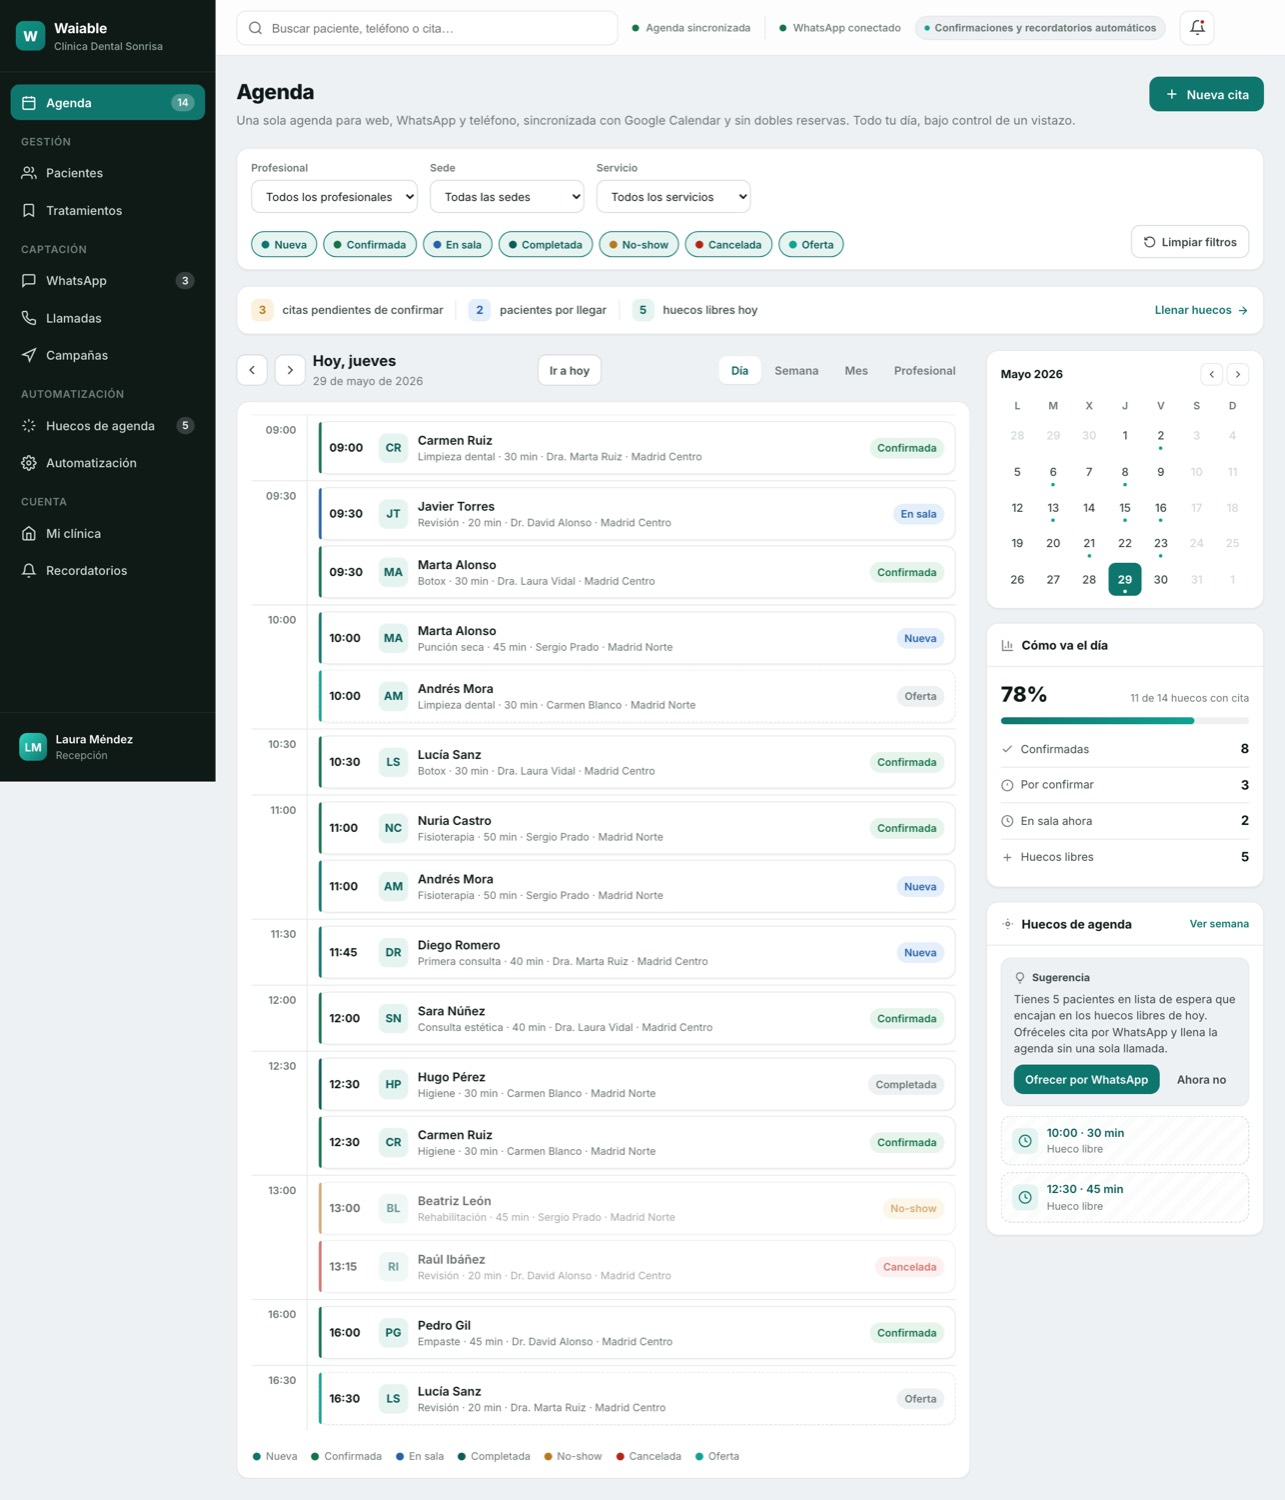
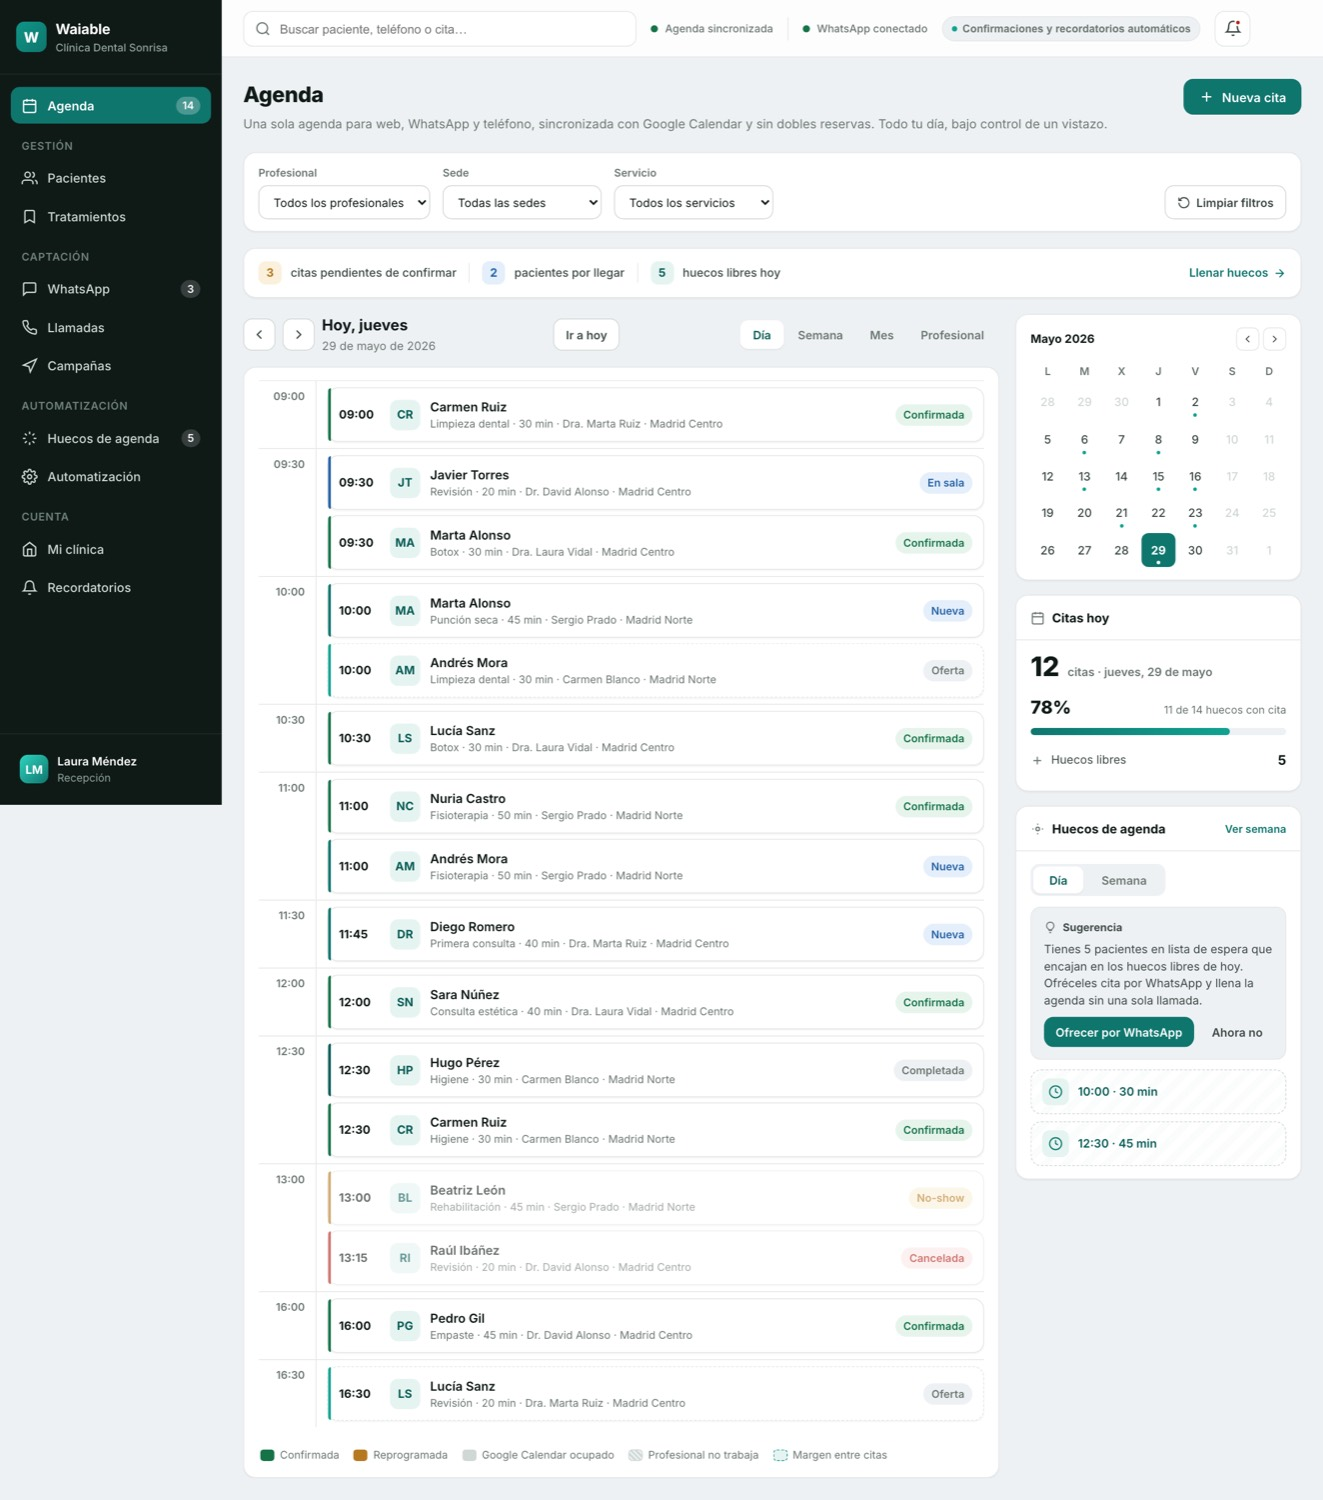
Agenda: quitar fila de chips de estado (mas espacio para el calendario); nueva leyenda inferior (Confirmada/Reprogramada/Google Calendar ocupado/Profesional no trabaja/Margen entre citas); 'Como va el dia' -> 'Citas hoy' (n citas + fecha + % huecos + solo Huecos libres); en Huecos de agenda toggle D

diff --git a/clinicas/agenda.html b/clinicas/agenda.html
@@ -456,6 +456,19 @@ body{font-family:'Inter',system-ui,sans-serif;background:var(--bg);color:var(--t
 @media(max-width:760px){.cm-grid2,.cm-slots{grid-template-columns:1fr}.cm-cal-periods{grid-template-columns:1fr 1fr}}
 
 
+
+/* ===== leyenda inferior (tipos de bloque) ===== */
+.lg-sw{width:16px;height:13px;border-radius:4px;flex-shrink:0;display:inline-block;border:1px solid transparent}
+.lg-confirmada{background:var(--ok)}
+.lg-reprogramada{background:var(--warning)}
+.lg-google{background:var(--line-strong)}
+.lg-nowork{background:repeating-linear-gradient(45deg,#cfd8d4,#cfd8d4 2px,#eef1f4 2px,#eef1f4 4px);border-color:var(--line-strong)}
+.lg-buffer{background:var(--primary-soft);border:1px dashed var(--primary-bright)}
+/* ===== filtro día/semana en tarjeta de huecos ===== */
+.gap-range{display:inline-flex;background:var(--bg);border-radius:10px;padding:3px;gap:2px;margin-bottom:12px}
+.gap-range-btn{height:30px;padding:0 18px;border:none;background:transparent;border-radius:8px;font-size:13px;font-weight:600;color:var(--muted);cursor:pointer;font-family:inherit}
+.gap-range-btn.active{background:var(--surface);color:var(--primary-dark);box-shadow:var(--shadow-sm)}
+
 </style>
 </head>
 <body>
@@ -589,15 +602,6 @@ body{font-family:'Inter',system-ui,sans-serif;background:var(--bg);color:var(--t
           <option value="Primera consulta">Primera consulta</option>
         </select>
       </div>
-      <div class="filter-chips" id="statusChips">
-        <button class="chip active" data-status="nueva"><span class="chip-dot" style="background:var(--primary)"></span> Nueva</button>
-        <button class="chip active" data-status="confirmada"><span class="chip-dot" style="background:var(--ok)"></span> Confirmada</button>
-        <button class="chip active" data-status="en_sala"><span class="chip-dot" style="background:var(--info)"></span> En sala</button>
-        <button class="chip active" data-status="completada"><span class="chip-dot" style="background:var(--primary-dark)"></span> Completada</button>
-        <button class="chip active" data-status="no_show"><span class="chip-dot" style="background:var(--warning)"></span> No-show</button>
-        <button class="chip active" data-status="cancelada"><span class="chip-dot" style="background:var(--danger)"></span> Cancelada</button>
-        <button class="chip active" data-status="oferta"><span class="chip-dot" style="background:var(--accent)"></span> Oferta</button>
-      </div>
       <button class="filter-reset" id="filterReset" type="button">
         <svg viewBox="0 0 24 24" fill="none" stroke="currentColor" stroke-width="2"><path d="M3 12a9 9 0 1 0 3-6.7L3 8"/><path d="M3 3v5h5"/></svg>
         Limpiar filtros
@@ -643,15 +647,13 @@ body{font-family:'Inter',system-ui,sans-serif;background:var(--bg);color:var(--t
           <!-- la rejilla se genera dinámicamente según vista + filtros -->
           <div id="calendar"></div>
 
-          <!-- legend -->
-          <div class="legend" style="padding:12px 2px 2px">
-            <div class="legend-item"><span class="legend-dot" style="background:var(--primary)"></span> Nueva</div>
-            <div class="legend-item"><span class="legend-dot" style="background:var(--ok)"></span> Confirmada</div>
-            <div class="legend-item"><span class="legend-dot" style="background:var(--info)"></span> En sala</div>
-            <div class="legend-item"><span class="legend-dot" style="background:var(--primary-dark)"></span> Completada</div>
-            <div class="legend-item"><span class="legend-dot" style="background:var(--warning)"></span> No-show</div>
-            <div class="legend-item"><span class="legend-dot" style="background:var(--danger)"></span> Cancelada</div>
-            <div class="legend-item"><span class="legend-dot" style="background:var(--accent)"></span> Oferta</div>
+          <!-- leyenda -->
+          <div class="legend" style="padding:14px 2px 2px">
+            <div class="legend-item"><span class="lg-sw lg-confirmada"></span> Confirmada</div>
+            <div class="legend-item"><span class="lg-sw lg-reprogramada"></span> Reprogramada</div>
+            <div class="legend-item"><span class="lg-sw lg-google"></span> Google Calendar ocupado</div>
+            <div class="legend-item"><span class="lg-sw lg-nowork"></span> Profesional no trabaja</div>
+            <div class="legend-item"><span class="lg-sw lg-buffer"></span> Margen entre citas</div>
           </div>
         </div>
       </div>
@@ -680,29 +682,21 @@ body{font-family:'Inter',system-ui,sans-serif;background:var(--bg);color:var(--t
           </div>
         </div>
 
-        <!-- ocupación del día -->
+        <!-- citas de hoy -->
         <div class="side-card">
           <div class="side-head">
-            <div class="side-title"><svg viewBox="0 0 24 24" fill="none" stroke="currentColor" stroke-width="2"><path d="M3 3v18h18"/><path d="M18 17V9M13 17V5M8 17v-3"/></svg> Cómo va el día</div>
+            <div class="side-title"><svg viewBox="0 0 24 24" fill="none" stroke="currentColor" stroke-width="2"><rect x="3" y="4" width="18" height="18" rx="2"/><path d="M16 2v4M8 2v4M3 10h18"/></svg> Citas hoy</div>
           </div>
           <div class="side-body">
-            <div style="display:flex;align-items:baseline;justify-content:space-between">
-              <div style="font-size:24px;font-weight:800">78%</div>
+            <div style="display:flex;align-items:baseline;gap:9px">
+              <div style="font-size:30px;font-weight:800;line-height:1;color:var(--text)">12</div>
+              <div style="font-size:13px;color:var(--muted);font-weight:600">citas &middot; jueves, 29 de mayo</div>
+            </div>
+            <div style="display:flex;align-items:baseline;justify-content:space-between;margin-top:14px">
+              <div style="font-size:20px;font-weight:800">78%</div>
               <div style="font-size:12px;color:var(--muted)">11 de 14 huecos con cita</div>
             </div>
             <div class="fill-bar"><span style="width:78%"></span></div>
-            <div class="stat-row">
-              <div class="stat-label"><svg viewBox="0 0 24 24" fill="none" stroke="currentColor" stroke-width="2"><path d="M20 6L9 17l-5-5"/></svg> Confirmadas</div>
-              <div class="stat-value">8</div>
-            </div>
-            <div class="stat-row">
-              <div class="stat-label"><svg viewBox="0 0 24 24" fill="none" stroke="currentColor" stroke-width="2"><circle cx="12" cy="12" r="10"/><path d="M12 8v4M12 16h.01"/></svg> Por confirmar</div>
-              <div class="stat-value">3</div>
-            </div>
-            <div class="stat-row">
-              <div class="stat-label"><svg viewBox="0 0 24 24" fill="none" stroke="currentColor" stroke-width="2"><circle cx="12" cy="12" r="10"/><path d="M12 6v6l4 2"/></svg> En sala ahora</div>
-              <div class="stat-value">2</div>
-            </div>
             <div class="stat-row">
               <div class="stat-label"><svg viewBox="0 0 24 24" fill="none" stroke="currentColor" stroke-width="2"><path d="M12 5v14M5 12h14"/></svg> Huecos libres</div>
               <div class="stat-value">5</div>
@@ -717,31 +711,55 @@ body{font-family:'Inter',system-ui,sans-serif;background:var(--bg);color:var(--t
             <a class="side-link" onclick="toast('Abriendo todos los huecos de la semana')">Ver semana</a>
           </div>
           <div class="side-body">
-            <!-- secondary, sober suggestion block -->
+            <!-- filtro día / semana -->
+            <div class="gap-range" id="gapRange">
+              <button class="gap-range-btn active" type="button" data-range="dia">Día</button>
+              <button class="gap-range-btn" type="button" data-range="semana">Semana</button>
+            </div>
+            <!-- sugerencia (se mantiene) -->
             <div class="sugg">
               <div class="sugg-head">
                 <svg viewBox="0 0 24 24" fill="none" stroke="currentColor" stroke-width="2"><path d="M9 18h6M10 22h4M12 2a7 7 0 0 0-4 12.7c.6.5 1 1.3 1 2.1h6c0-.8.4-1.6 1-2.1A7 7 0 0 0 12 2z"/></svg>
                 Sugerencia
               </div>
-              <div class="sugg-text">Tienes 5 pacientes en lista de espera que encajan en los huecos libres de hoy. Ofréceles cita por WhatsApp y llena la agenda sin una sola llamada.</div>
+              <div class="sugg-text" id="suggText">Tienes 5 pacientes en lista de espera que encajan en los huecos libres de hoy. Ofréceles cita por WhatsApp y llena la agenda sin una sola llamada.</div>
               <div class="sugg-actions">
-                <button class="btn btn-sm btn-primary" onclick="toast('Mensaje enviado a 5 pacientes de la lista de espera')">Ofrecer por WhatsApp</button>
+                <button class="btn btn-sm btn-primary" onclick="toast('Mensaje enviado a los pacientes de la lista de espera')">Ofrecer por WhatsApp</button>
                 <button class="btn btn-sm btn-ghost" onclick="toast('Sugerencia descartada')">Ahora no</button>
               </div>
             </div>
 
-            <div class="gap-slot" style="margin-bottom:8px" onclick="openNew('10:00')">
-              <div class="gap-icon"><svg viewBox="0 0 24 24" fill="none" stroke="currentColor" stroke-width="2"><circle cx="12" cy="12" r="10"/><path d="M12 6v6l4 2"/></svg></div>
-              <div class="gap-text">
-                <div class="gap-title">10:00 · 30 min</div>
-                <div class="gap-sub">Hueco libre</div>
+            <div id="gapDia">
+              <div class="gap-slot" style="margin-bottom:8px" onclick="openNew('10:00')">
+                <div class="gap-icon"><svg viewBox="0 0 24 24" fill="none" stroke="currentColor" stroke-width="2"><circle cx="12" cy="12" r="10"/><path d="M12 6v6l4 2"/></svg></div>
+                <div class="gap-text"><div class="gap-title">10:00 · 30 min</div></div>
+              </div>
+              <div class="gap-slot" onclick="openNew('12:30')">
+                <div class="gap-icon"><svg viewBox="0 0 24 24" fill="none" stroke="currentColor" stroke-width="2"><circle cx="12" cy="12" r="10"/><path d="M12 6v6l4 2"/></svg></div>
+                <div class="gap-text"><div class="gap-title">12:30 · 45 min</div></div>
               </div>
             </div>
-            <div class="gap-slot" onclick="openNew('12:30')">
-              <div class="gap-icon"><svg viewBox="0 0 24 24" fill="none" stroke="currentColor" stroke-width="2"><circle cx="12" cy="12" r="10"/><path d="M12 6v6l4 2"/></svg></div>
-              <div class="gap-text">
-                <div class="gap-title">12:30 · 45 min</div>
-                <div class="gap-sub">Hueco libre</div>
+
+            <div id="gapSemana" style="display:none">
+              <div class="gap-slot" style="margin-bottom:8px" onclick="openNew('10:00')">
+                <div class="gap-icon"><svg viewBox="0 0 24 24" fill="none" stroke="currentColor" stroke-width="2"><circle cx="12" cy="12" r="10"/><path d="M12 6v6l4 2"/></svg></div>
+                <div class="gap-text"><div class="gap-title">Jue 29 · 10:00 · 30 min</div></div>
+              </div>
+              <div class="gap-slot" style="margin-bottom:8px" onclick="openNew('12:30')">
+                <div class="gap-icon"><svg viewBox="0 0 24 24" fill="none" stroke="currentColor" stroke-width="2"><circle cx="12" cy="12" r="10"/><path d="M12 6v6l4 2"/></svg></div>
+                <div class="gap-text"><div class="gap-title">Jue 29 · 12:30 · 45 min</div></div>
+              </div>
+              <div class="gap-slot" style="margin-bottom:8px" onclick="openNew('11:00')">
+                <div class="gap-icon"><svg viewBox="0 0 24 24" fill="none" stroke="currentColor" stroke-width="2"><circle cx="12" cy="12" r="10"/><path d="M12 6v6l4 2"/></svg></div>
+                <div class="gap-text"><div class="gap-title">Vie 30 · 11:00 · 30 min</div></div>
+              </div>
+              <div class="gap-slot" style="margin-bottom:8px" onclick="openNew('16:30')">
+                <div class="gap-icon"><svg viewBox="0 0 24 24" fill="none" stroke="currentColor" stroke-width="2"><circle cx="12" cy="12" r="10"/><path d="M12 6v6l4 2"/></svg></div>
+                <div class="gap-text"><div class="gap-title">Vie 30 · 16:30 · 45 min</div></div>
+              </div>
+              <div class="gap-slot" onclick="openNew('09:30')">
+                <div class="gap-icon"><svg viewBox="0 0 24 24" fill="none" stroke="currentColor" stroke-width="2"><circle cx="12" cy="12" r="10"/><path d="M12 6v6l4 2"/></svg></div>
+                <div class="gap-text"><div class="gap-title">Sáb 31 · 09:30 · 30 min</div></div>
               </div>
             </div>
           </div>
@@ -1184,7 +1202,7 @@ function renderDia(){
                     .sort(function(a,b){return a.ini<b.ini?-1:1;});
     html+='<div class="tl-row"><div class="tl-time">'+h+'</div><div class="tl-slot">';
     if(enSlot.length){ enSlot.forEach(function(c){html+=apptCardHTML(c);}); }
-    else { html+='<div class="day-empty-slot">Hueco libre</div>'; }
+    else { html+=''; }
     html+='</div></div>';
   });
   html+='</div>';
@@ -1587,6 +1605,24 @@ render();
 })();
 
 function openNew(t){ if(window.openCreateAppt){ window.openCreateAppt(t); } else { openNewLegacy(t); } }
+
+/* ===== filtro día / semana en la tarjeta de huecos de agenda ===== */
+(function(){
+  var box=document.getElementById('gapRange'); if(!box) return;
+  var dia=document.getElementById('gapDia'), sem=document.getElementById('gapSemana'), sg=document.getElementById('suggText');
+  box.addEventListener('click',function(e){
+    var b=e.target.closest('.gap-range-btn'); if(!b) return;
+    box.querySelectorAll('.gap-range-btn').forEach(function(x){x.classList.remove('active');});
+    b.classList.add('active');
+    var r=b.getAttribute('data-range');
+    if(dia) dia.style.display = r==='dia'?'':'none';
+    if(sem) sem.style.display = r==='semana'?'':'none';
+    if(sg) sg.textContent = r==='dia'
+      ? 'Tienes 5 pacientes en lista de espera que encajan en los huecos libres de hoy. Ofréceles cita por WhatsApp y llena la agenda sin una sola llamada.'
+      : 'Esta semana quedan 14 huecos libres y tienes 9 pacientes en lista de espera que encajan. Ofréceles cita por WhatsApp y llena la agenda sin una sola llamada.';
+  });
+})();
+
 </script>
 </body>
 </html>
